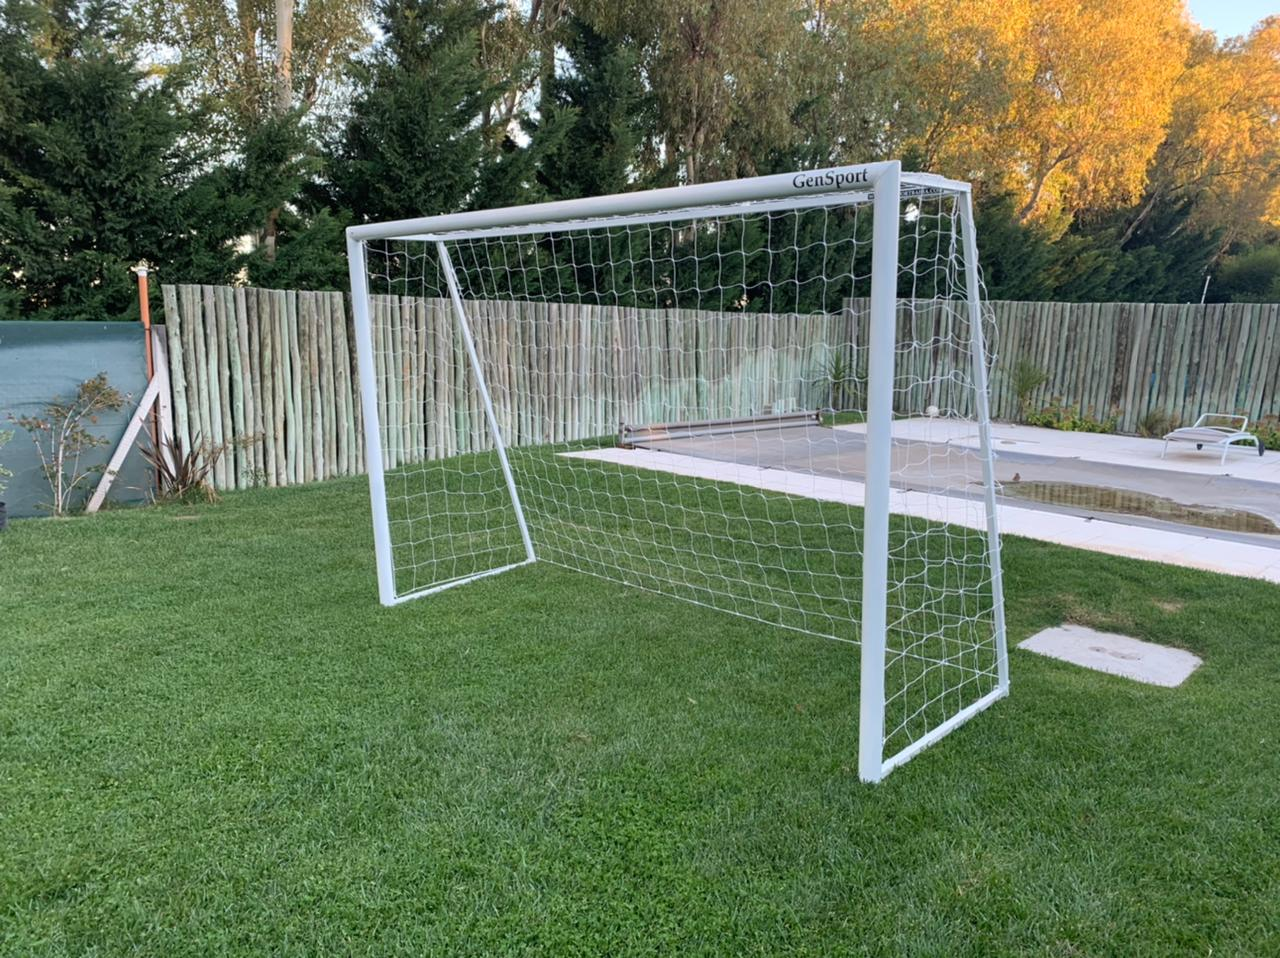
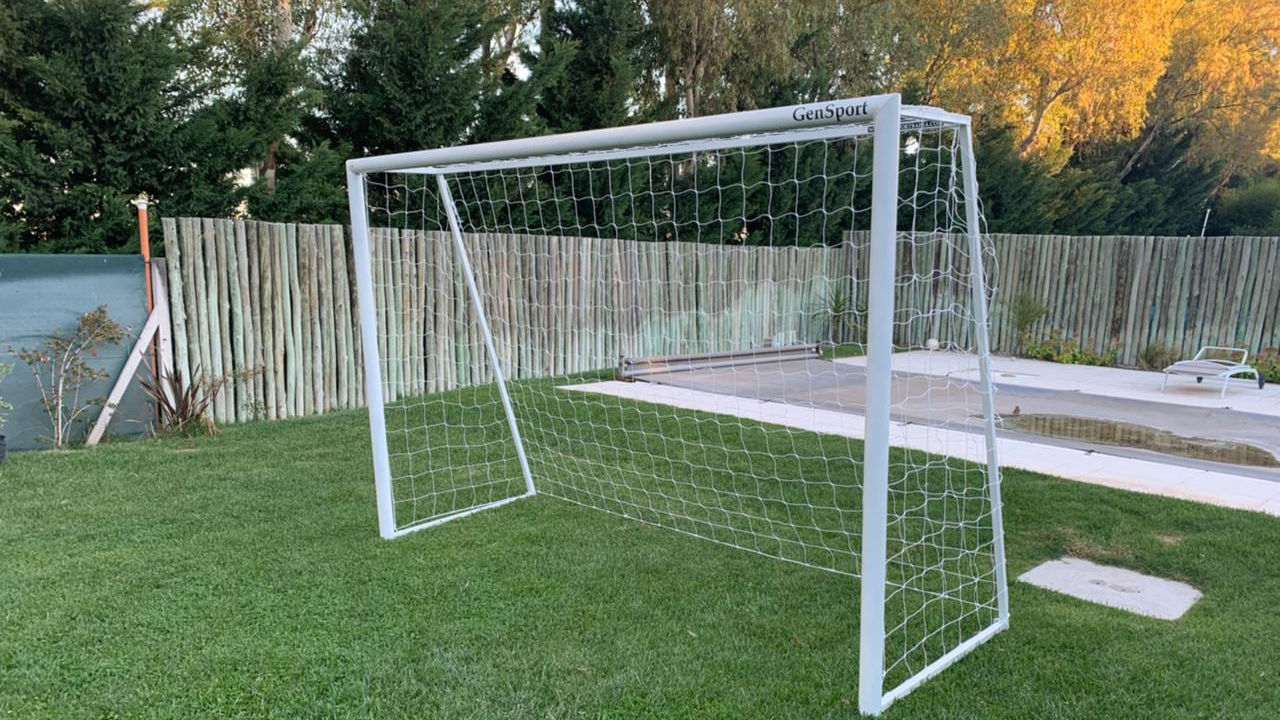
Sección 'Inicio' finalizada

diff --git a/CSS/IndexStyle.css b/CSS/IndexStyle.css
@@ -4,9 +4,9 @@ html {
 
 /*Estilos para el Header y Footer*/
 header, footer {
-    background: #000;
+    background: #ffffff;
     opacity: 100%;
-    color: #fff;
+    color: #000000;
     padding: 20px 0;
     position: fixed;
     width: 100%;
@@ -17,11 +17,17 @@ header, footer {
     transition: opacity 1s, transform 1s;
 }
 
-header.scrolled, footer.scrolled {
+header.scrolled{
+    background: #ffffff;
+    color: #000000;
     opacity: 70%;
-    transform: scale(1);
+    transform: scale(0.8);
+    transition: 2s;
 }
-
+footer.scrolled {
+    transform: scale(0);
+    transition: 2s;
+}
 header {
     top: 0;
 }
@@ -47,7 +53,7 @@ header nav ul li, footer nav ul li {
 }
 
 header nav ul li a, footer nav ul li a {
-    color: #fff;
+    color: #000000;
     text-decoration: none;
 }
 
@@ -71,7 +77,7 @@ body::before {
     left: 0;
     width: 100%;
     height: 100%;
-    background-color: rgb(255, 255, 255); /* Fondo negro traslúcido */
+    background-color: rgb(0, 0, 0); /* Fondo negro traslúcido */
     z-index: -1; /* Asegura que esté detrás del contenido */
 }
 
@@ -81,8 +87,8 @@ body::before {
     display: flex;
     align-items: center;
     justify-content: center;
-    padding-top: 50px; /* Para compensar el header fijo */
-    padding-bottom: 50px; /* Para compensar el footer fijo */
+    /*padding-top: 0px; /* Para compensar el header fijo */
+    /*padding-bottom: 0px; /* Para compensar el footer fijo */
     height: 100vh; /* Ocupa el 100% de la altura de la ventana gráfica */
     box-sizing: border-box;
     width: 100%;
@@ -92,7 +98,7 @@ body::before {
     border-bottom: 10px solid #ffffff; /* Borde blanco delgado */
     color: #ffffff; /* Texto blanco */
     text-align: center; /* Centra el texto */
-    background-size: cover; /* Asegura que la imagen de fondo cubra toda la sección */
+    background-size: contain; /* Asegura que la imagen de fondo cubra toda la sección */
     background-position: center; /* Centra la imagen de fondo */
 }
 

diff --git a/HTML/Index.html b/HTML/Index.html
@@ -27,25 +27,25 @@
             </div>
             <div class="carousel">
                 <div class="carousel-item active">
-                    <img src="../IMG/Gigante Dormido/GD-2.jpg" alt="Imagen 1">
+                    <img src="../IMG/INDEX/Arco futbol 5.jpg" alt="Imagen 1">
                 </div>
                 <div class="carousel-item">
-                    <img src="../IMG/Gigante Dormido/GD-8.jpg" alt="Imagen 2">
+                    <img src="../IMG/INDEX/Whitense.jpeg" alt="Imagen 2">
                 </div>
                 <div class="carousel-item">
-                    <img src="../IMG/INDEX/IMG-20220926-WA0026.jpg" alt="Imagen 3">
+                    <img src="../IMG/INDEX/GD-8.jpg" alt="Imagen 3">
                 </div>                
                 <div class="carousel-item">
-                    <img src="../IMG/PISOS/MADERA/IMG-20220607-WA0046.jpg" alt="Imagen 4">
+                    <img src="../IMG/INDEX/dsp monte hermosa.jpg" alt="Imagen 4">
                 </div>
                 <div class="carousel-item">
-                    <img src="../IMG/EQUIPAMIENTO/IMG-20220527-WA0041.jpg" alt="Imagen 5">
+                    <img src="../IMG/INDEX/Semi.jpg" alt="Imagen 5">
                 </div>
                 <div class="carousel-item">
-                    <img src="../IMG/EQUIPAMIENTO/IMG-20220602-WA0037.jpg" alt="Imagen 6">
+                    <img src="../IMG/INDEX/Deportivo Ferrocarril.jpg" alt="Imagen 6">
                 </div>
                 <div class="carousel-item">
-                    <img src="../IMG/PISOS/PLASTICO/IMG-20220804-WA0017.jpg" alt="Imagen 7">
+                    <img src="../IMG/INDEX/Semi con Reductora.jpg" alt="Imagen 7">
                 </div>
             </div>
         </section>
